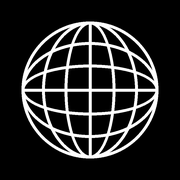
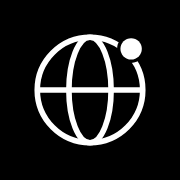
Логотип, сообщения слева, панель действий у сообщения, переключатель участников
Claude-Session: https://claude.ai/code/session_01LKqLCCSRVGjQHTdUZQkSDw

Changed region(s): [[0.1111, 0.1111, 0.8889, 0.8889]]

diff --git a/public/app.js b/public/app.js
@@ -75,10 +75,15 @@ const ICONS = {
   settings: '<circle cx="12" cy="12" r="3"/><path d="M12 3v3M12 18v3M3 12h3M18 12h3M5.6 5.6l2.1 2.1M16.3 16.3l2.1 2.1M5.6 18.4l2.1-2.1M16.3 7.7l2.1-2.1"/>',
   stop: '<rect x="6" y="6" width="12" height="12" rx="2"/>',
   check: '<path d="M5 12.5l4.5 4.5L19 7.5"/>',
+  users: '<circle cx="9" cy="8.5" r="3.2"/><path d="M3.5 19c.4-3.2 2.6-5 5.5-5s5.1 1.8 5.5 5M16 5.6a3.2 3.2 0 0 1 0 5.8M17.5 14.3c1.9.5 3 2.1 3.3 4.7"/>',
   clock: '<circle cx="12" cy="12" r="9"/><path d="M12 7v5l3 2"/>',
 };
 const ic = (n) => `<svg class="i" viewBox="0 0 24 24" aria-hidden="true">${ICONS[n]}</svg>`;
 
+const LOGO = `<svg class="logo" xmlns="http://www.w3.org/2000/svg" viewBox="0 0 573 76" role="img" aria-label="Earth's Network" color="currentColor"><circle cx="34" cy="38.0" r="30" fill="none" stroke="currentColor" stroke-width="3.2"/>
+<ellipse cx="34" cy="38.0" rx="12.0" ry="30" fill="none" stroke="currentColor" stroke-width="3.2"/>
+<path d="M4 38.0H64" stroke="currentColor" stroke-width="3.2"/>
+<circle cx="57.4" cy="14.6" r="6.1" fill="currentColor" stroke="var(--bg,#000)" stroke-width="3.8" paint-order="stroke"/><path transform="translate(90.0 56.0)" d="M34.13 -21.6V-14.4H13.97L12.91 -8.06H35.71V0H2.26L4.99 -18L2.26 -36H35.47V-27.94H12.91L13.97 -21.6Z M64.37 0 63.65 -5.57Q61.78 -2.69 58.99 -1.06Q55.92 0.77 52.03 0.77Q48 0.77 44.95 -1.03Q41.9 -2.83 40.18 -6.12Q38.45 -9.41 38.45 -13.68Q38.45 -18.05 40.18 -21.31Q41.9 -24.58 44.95 -26.4Q48 -28.22 52.03 -28.22Q55.92 -28.22 58.99 -26.45Q61.78 -24.77 63.7 -21.94L64.37 -27.41H74.54L72.82 -13.73L74.54 0ZM48.38 -13.68Q48.38 -11.66 49.22 -10.08Q50.06 -8.5 51.55 -7.61Q53.04 -6.72 54.96 -6.72Q56.98 -6.72 58.75 -7.61Q60.53 -8.5 61.87 -10.08Q63.22 -11.66 63.89 -13.68Q63.22 -15.74 61.87 -17.33Q60.53 -18.91 58.75 -19.82Q56.98 -20.74 54.96 -20.74Q53.04 -20.74 51.55 -19.82Q50.06 -18.91 49.22 -17.33Q48.38 -15.74 48.38 -13.68Z M76.75 -27.41H86.74L87.94 -20.11Q88.66 -22.18 89.76 -23.86Q91.06 -25.87 93.02 -27.05Q94.99 -28.22 97.82 -28.22Q98.64 -28.22 99.5 -28.13Q100.37 -28.03 101.23 -27.84V-19.49Q99.79 -19.78 98.52 -19.9Q97.25 -20.02 96.19 -20.02Q94.08 -20.02 92.3 -19.18Q90.53 -18.34 89.45 -16.42Q88.37 -14.5 88.37 -11.28V0H78.58V-18.19Z M100.99 -20.16V-24.43L106.56 -26.69L110.78 -34.8H116.35V-27.41H127.87V-20.16H116.35V-12.1Q116.35 -9.12 117.55 -7.92Q118.75 -6.72 121.92 -6.72Q123.94 -6.72 125.5 -7.08Q127.06 -7.44 128.35 -8.02V-0.62Q126.91 -0.1 124.56 0.34Q122.21 0.77 119.71 0.77Q115.15 0.77 112.25 -0.62Q109.34 -2.02 107.95 -4.63Q106.56 -7.25 106.56 -10.75V-20.16Z M131.14 -36.96H140.98V-23.09Q142.66 -25.39 145.01 -26.69Q147.74 -28.22 151.01 -28.22Q154.99 -28.22 157.75 -26.64Q160.51 -25.06 162 -22.18Q163.49 -19.3 163.49 -15.36V0H153.65V-13.92Q153.65 -16.99 152.09 -18.62Q150.53 -20.26 147.6 -20.26Q145.58 -20.26 144.07 -19.39Q142.56 -18.53 141.77 -16.94Q140.98 -15.36 140.98 -13.2V0H131.14Z M166.37 -36H176.11L174.19 -19.92H168.29Z M211.1 -8.93Q211.1 -5.76 209.18 -3.6Q207.26 -1.44 203.71 -0.34Q200.16 0.77 195.17 0.77Q190.03 0.77 186.17 -0.48Q182.3 -1.73 180.14 -3.98Q177.98 -6.24 177.84 -9.22H187.78Q188.11 -8.11 189.1 -7.32Q190.08 -6.53 191.71 -6.12Q193.34 -5.71 195.6 -5.71Q198.53 -5.71 200.04 -6.29Q201.55 -6.86 201.55 -8.02Q201.55 -8.93 200.4 -9.38Q199.25 -9.84 196.46 -10.08L191.62 -10.46Q186.77 -10.8 183.91 -11.93Q181.06 -13.06 179.81 -14.86Q178.56 -16.66 178.56 -18.96Q178.56 -22.08 180.5 -24.12Q182.45 -26.16 185.93 -27.19Q189.41 -28.22 194.06 -28.22Q198.67 -28.22 202.27 -27.02Q205.87 -25.82 208.03 -23.69Q210.19 -21.55 210.53 -18.67H200.59Q200.35 -19.58 199.54 -20.33Q198.72 -21.07 197.28 -21.55Q195.84 -22.03 193.58 -22.03Q190.94 -22.03 189.58 -21.46Q188.21 -20.88 188.21 -19.82Q188.21 -19.01 189.05 -18.53Q189.89 -18.05 192.19 -17.86L198.58 -17.38Q203.33 -17.09 206.06 -16.01Q208.8 -14.93 209.95 -13.15Q211.1 -11.38 211.1 -8.93Z  M255.7 -11.33V-36H265.34V0H252.82L235.06 -25.3V0H225.41V-36H238.27Z M286.27 0.77Q281.28 0.77 277.37 -1.06Q273.46 -2.88 271.2 -6.17Q268.94 -9.46 268.94 -13.82Q268.94 -18.1 271.1 -21.34Q273.26 -24.58 277.03 -26.4Q280.8 -28.22 285.55 -28.22Q290.5 -28.22 293.98 -26.09Q297.46 -23.95 299.35 -20.06Q301.25 -16.18 301.25 -10.9H279.6Q279.79 -10.51 280.03 -10.18Q281.18 -8.35 283.46 -7.39Q285.74 -6.43 289.06 -6.43Q292.08 -6.43 295.08 -7.22Q298.08 -8.02 300.53 -9.46V-3.22Q297.7 -1.3 294.07 -0.26Q290.45 0.77 286.27 0.77ZM279.17 -16.8H292.13Q291.84 -17.62 291.46 -18.34Q290.59 -19.78 289.18 -20.54Q287.76 -21.31 285.79 -21.31Q283.63 -21.31 282.1 -20.45Q280.56 -19.58 279.7 -18.1Q279.36 -17.47 279.17 -16.8Z M301.82 -20.16V-24.43L307.39 -26.69L311.62 -34.8H317.18V-27.41H328.7V-20.16H317.18V-12.1Q317.18 -9.12 318.38 -7.92Q319.58 -6.72 322.75 -6.72Q324.77 -6.72 326.33 -7.08Q327.89 -7.44 329.18 -8.02V-0.62Q327.74 -0.1 325.39 0.34Q323.04 0.77 320.54 0.77Q315.98 0.77 313.08 -0.62Q310.18 -2.02 308.78 -4.63Q307.39 -7.25 307.39 -10.75V-20.16Z M367.87 -9.79 374.11 -27.41H383.9L373.63 0H363.65L356.69 -18.43L349.63 0H339.65L329.38 -27.41H339.26L345.5 -9.74L352.03 -27.41H361.39Z M401.81 0.77Q396.53 0.77 392.59 -1.03Q388.66 -2.83 386.45 -6.12Q384.24 -9.41 384.24 -13.68Q384.24 -18.05 386.45 -21.31Q388.66 -24.58 392.59 -26.4Q396.53 -28.22 401.81 -28.22Q407.04 -28.22 411 -26.4Q414.96 -24.58 417.17 -21.31Q419.38 -18.05 419.38 -13.68Q419.38 -9.41 417.17 -6.12Q414.96 -2.83 411 -1.03Q407.04 0.77 401.81 0.77ZM401.81 -6.48Q404.21 -6.48 405.91 -7.34Q407.62 -8.21 408.53 -9.84Q409.44 -11.47 409.44 -13.68Q409.44 -15.98 408.53 -17.59Q407.62 -19.2 405.91 -20.06Q404.21 -20.93 401.81 -20.93Q399.41 -20.93 397.68 -20.06Q395.95 -19.2 395.04 -17.59Q394.13 -15.98 394.13 -13.73Q394.13 -11.47 395.04 -9.84Q395.95 -8.21 397.68 -7.34Q399.41 -6.48 401.81 -6.48Z M421.01 -27.41H430.99L432.19 -20.11Q432.91 -22.18 434.02 -23.86Q435.31 -25.87 437.28 -27.05Q439.25 -28.22 442.08 -28.22Q442.9 -28.22 443.76 -28.13Q444.62 -28.03 445.49 -27.84V-19.49Q444.05 -19.78 442.78 -19.9Q441.5 -20.02 440.45 -20.02Q438.34 -20.02 436.56 -19.18Q434.78 -18.34 433.7 -16.42Q432.62 -14.5 432.62 -11.28V0H422.83V-18.19Z M457.49 -12.05 469.97 -27.41H480.29L470.78 -16.51L481.01 0H469.97L464.54 -9.31L456.43 0H447.65V-36.96H457.49Z" fill="currentColor"/></svg>`;
 const S = {
   token: localStorage.getItem('nc_token'),
   user: null,
@@ -390,8 +395,8 @@ function openChannel(ch) {
   if (S.unread[ch.id]) { delete S.unread[ch.id]; recountUnread?.(); }
   if (S.view.type === 'server') renderServerSide(); else renderHomeSide();
   renderRail();
-  $('#main-head').innerHTML = `${burger()}<span class="muted">${ch.type === 'dm' ? '@' : ic('hash')}</span> <span>${esc(ch.name)}</span>${ch.topic ? `<span class="ch-topic grow" title="${esc(ch.topic)}">${esc(ch.topic)}</span>` : '<span class="grow"></span>'}${ch.slowmode ? `<span class="muted small slow-tag" title="Медленный режим">${ic('clock')} ${slowLabel(ch.slowmode)}</span>` : ''}${S.view.type === 'server' && S.server?.server.owner_id === S.user.id ? `<button class="icon-btn" id="ch-set" title="Настройки канала" aria-label="Настройки канала">${ic('settings')}</button>` : ''}<button class="icon-btn" id="pins" title="Закреплённые" aria-label="Закреплённые">${ic('pin')}</button>`;
-  $('#main-head').onclick = (e) => { burgerClick(e); if (e.target.closest('#pins')) pinsModal(); if (e.target.closest('#ch-set')) channelSettings(ch); };
+  $('#main-head').innerHTML = `${burger()}<span class="muted">${ch.type === 'dm' ? '@' : ic('hash')}</span> <span>${esc(ch.name)}</span>${ch.topic ? `<span class="ch-topic grow" title="${esc(ch.topic)}">${esc(ch.topic)}</span>` : '<span class="grow"></span>'}${ch.slowmode ? `<span class="muted small slow-tag" title="Медленный режим">${ic('clock')} ${slowLabel(ch.slowmode)}</span>` : ''}${S.view.type === 'server' && S.server?.server.owner_id === S.user.id ? `<button class="icon-btn" id="ch-set" title="Настройки канала" aria-label="Настройки канала">${ic('settings')}</button>` : ''}${S.view.type === 'server' ? `<button class="icon-btn ${S.prefs.hideMembers ? '' : 'on'}" id="mem-tg" title="${S.prefs.hideMembers ? 'Показать участников' : 'Скрыть участников'}" aria-label="Список участников" aria-pressed="${!S.prefs.hideMembers}">${ic('users')}</button>` : ''}<button class="icon-btn" id="pins" title="Закреплённые" aria-label="Закреплённые">${ic('pin')}</button>`;
+  $('#main-head').onclick = (e) => { burgerClick(e); if (e.target.closest('#pins')) pinsModal(); if (e.target.closest('#ch-set')) channelSettings(ch); if (e.target.closest('#mem-tg')) toggleMembers(); };
   const v = $('#view');
   v.onclick = null;
   v.classList.remove('enter'); void v.offsetWidth; v.classList.add('enter');
@@ -494,8 +499,8 @@ function msgHtml(m, prev) {
   const owner = S.server && S.server.server.owner_id === S.user.id;
   const cont = prev && prev.user_id === m.user_id && m.created_at - prev.created_at < 300000 && !m.reply_to;
   const when = fmtTime(m.created_at);
-  const gutter = mine ? '' : `<div class="gutter">${cont ? '' : `<span data-user="${esc(m.username)}" class="clickable">${avatar(m.username, 36)}</span>`}</div>`;
-  const name = mine || cont ? '' : `<div class="who"><a href="#" data-user="${esc(m.username)}">${esc(m.username)}</a></div>`;
+  const gutter = `<div class="gutter">${cont ? '' : `<span data-user="${esc(m.username)}" class="clickable">${avatar(m.username, 36)}</span>`}</div>`;
+  const name = cont ? '' : `<div class="who"><a href="#" data-user="${esc(m.username)}">${esc(m.username)}</a></div>`;
   const quote = m.reply_to ? `<div class="quote" data-jump="${m.reply_to}"><b>${esc(m.reply_name || '?')}</b> ${esc(m.reply_content || 'сообщение удалено')}</div>` : '';
   const reacts = (m.reactions || []).length ? `<div class="reacts">${m.reactions.map((r) => `<button class="react ${r.users.includes(S.user.id) ? 'on' : ''}" data-react="${r.emoji}">${r.emoji} <span>${r.users.length}</span></button>`).join('')}</div>` : '';
   const linked = m.content ? linkify(m.content) : '';
@@ -506,8 +511,8 @@ function msgHtml(m, prev) {
     ${!S.server || owner ? `<button data-tool="pin" title="закрепить" aria-label="закрепить">${ic('pin')}</button>` : ''}
     ${!mine ? `<button data-tool="report" title="пожаловаться" aria-label="пожаловаться">${ic('flag')}</button>` : ''}
     ${mine || owner ? `<button data-tool="del" title="удалить" aria-label="удалить">${ic('trash')}</button>` : ''}</div>`;
-  return `<div class="msg ${mine ? 'mine' : ''} ${cont ? 'cont' : ''} ${m.pinned ? 'is-pinned' : ''}" data-id="${m.id}" data-uid="${m.user_id}" data-t="${m.created_at}">${gutter}<div class="body">${name}
-    ${quote}${linked ? `<div class="bubble" title="${when}">${linked}${m.edited_at ? ' <span class="edited">(изм.)</span>' : ''}${m.pinned ? `<span class="pin-mark">${ic('pin')}</span>` : ''}</div>` : ''}${att}${reacts}</div>${tools}</div>`;
+  return `<div class="msg ${mine ? 'own' : ''} ${cont ? 'cont' : ''} ${m.pinned ? 'is-pinned' : ''}" data-id="${m.id}" data-uid="${m.user_id}" data-t="${m.created_at}">${gutter}<div class="body">${name}
+    ${quote}${linked ? `<div class="bubble" title="${when}">${linked}${m.edited_at ? ' <span class="edited">(изм.)</span>' : ''}${m.pinned ? `<span class="pin-mark">${ic('pin')}</span>` : ''}</div>` : ''}${att}${reacts}${tools}</div></div>`;
 }
 function prevInfo(el) {
   const p = el?.previousElementSibling;
@@ -759,4 +764,12 @@ function updateVoiceBar() {
   b.innerHTML = `<div><b>голос подключён</b><div class="muted">${esc(S.voice.name)}</div></div><div><button class="icon-btn" id="vb-mute">${ic(S.voice.muted ? 'micoff' : 'mic')}</button><button class="icon-btn" id="vb-leave" aria-label="выйти из канала">${ic('close')}</button></div>`;
   $('#vb-mute').onclick = toggleMute;
   $('#vb-leave').onclick = leaveVoice;
+}
+
+function toggleMembers() {
+  S.prefs.hideMembers = !S.prefs.hideMembers;
+  applyPrefs();
+  $('#app').classList.toggle('no-members', !!S.prefs.hideMembers);
+  const b = $('#mem-tg');
+  if (b) { b.classList.toggle('on', !S.prefs.hideMembers); b.title = S.prefs.hideMembers ? 'Показать участников' : 'Скрыть участников'; b.setAttribute('aria-pressed', String(!S.prefs.hideMembers)); }
 }

diff --git a/public/index.html b/public/index.html
@@ -24,7 +24,10 @@
 
 <div id="auth" class="auth hidden">
   <div class="auth-hero">
-    <div class="wordmark">Earth's<br>Network</div>
+    <div class="wordmark"><svg class="logo-big" xmlns="http://www.w3.org/2000/svg" viewBox="0 0 377 160" color="currentColor"><circle cx="188.53399999999996" cy="48" r="40" fill="none" stroke="currentColor" stroke-width="3.6"/>
+<ellipse cx="188.53399999999996" cy="48" rx="16.0" ry="40" fill="none" stroke="currentColor" stroke-width="3.6"/>
+<path d="M148.53399999999996 48H228.53399999999996" stroke="currentColor" stroke-width="3.6"/>
+<circle cx="219.7" cy="16.8" r="6.8" fill="currentColor" stroke="var(--bg,#000)" stroke-width="4.3" paint-order="stroke"/><path transform="translate(8.0 140)" d="M25.6 -16.2V-10.8H10.48L9.68 -6.05H26.78V0H1.69L3.74 -13.5L1.69 -27H26.6V-20.95H9.68L10.48 -16.2Z M48.38 0 47.84 -4.18Q46.43 -2.02 44.34 -0.79Q42.04 0.58 39.12 0.58Q36.1 0.58 33.81 -0.77Q31.53 -2.12 30.23 -4.59Q28.94 -7.06 28.94 -10.26Q28.94 -13.54 30.23 -15.98Q31.53 -18.43 33.81 -19.8Q36.1 -21.17 39.12 -21.17Q42.04 -21.17 44.34 -19.84Q46.43 -18.58 47.87 -16.45L48.38 -20.56H56.01L54.71 -10.3L56.01 0ZM36.39 -10.26Q36.39 -8.75 37.02 -7.56Q37.65 -6.37 38.76 -5.71Q39.88 -5.04 41.32 -5.04Q42.83 -5.04 44.16 -5.71Q45.5 -6.37 46.5 -7.56Q47.51 -8.75 48.02 -10.26Q47.51 -11.81 46.5 -13Q45.5 -14.18 44.16 -14.87Q42.83 -15.55 41.32 -15.55Q39.88 -15.55 38.76 -14.87Q37.65 -14.18 37.02 -13Q36.39 -11.81 36.39 -10.26Z M57.76 -20.56H65.25L66.15 -15.08Q66.69 -16.63 67.52 -17.89Q68.49 -19.4 69.97 -20.29Q71.44 -21.17 73.57 -21.17Q74.18 -21.17 74.83 -21.1Q75.48 -21.02 76.12 -20.88V-14.62Q75.04 -14.83 74.09 -14.92Q73.14 -15.01 72.34 -15.01Q70.76 -15.01 69.43 -14.38Q68.1 -13.75 67.29 -12.31Q66.48 -10.87 66.48 -8.46V0H59.13V-13.64Z M76.04 -15.12V-18.32L80.22 -20.02L83.39 -26.1H87.56V-20.56H96.2V-15.12H87.56V-9.07Q87.56 -6.84 88.46 -5.94Q89.36 -5.04 91.74 -5.04Q93.25 -5.04 94.42 -5.31Q95.59 -5.58 96.56 -6.01V-0.47Q95.48 -0.07 93.72 0.25Q91.96 0.58 90.08 0.58Q86.66 0.58 84.49 -0.47Q82.31 -1.51 81.26 -3.47Q80.22 -5.44 80.22 -8.06V-15.12Z M98.75 -27.72H106.13V-17.32Q107.39 -19.04 109.16 -20.02Q111.21 -21.17 113.66 -21.17Q116.64 -21.17 118.71 -19.98Q120.78 -18.79 121.9 -16.63Q123.02 -14.47 123.02 -11.52V0H115.64V-10.44Q115.64 -12.74 114.47 -13.97Q113.3 -15.19 111.1 -15.19Q109.59 -15.19 108.45 -14.54Q107.32 -13.9 106.73 -12.71Q106.13 -11.52 106.13 -9.9V0H98.75Z M125.28 -27H132.58L131.14 -14.94H126.72Z M158.93 -6.7Q158.93 -4.32 157.49 -2.7Q156.05 -1.08 153.38 -0.25Q150.72 0.58 146.98 0.58Q143.12 0.58 140.23 -0.36Q137.33 -1.3 135.71 -2.99Q134.09 -4.68 133.98 -6.91H141.43Q141.68 -6.08 142.42 -5.49Q143.16 -4.9 144.38 -4.59Q145.61 -4.28 147.3 -4.28Q149.5 -4.28 150.63 -4.72Q151.76 -5.15 151.76 -6.01Q151.76 -6.7 150.9 -7.04Q150.04 -7.38 147.95 -7.56L144.31 -7.85Q140.68 -8.1 138.53 -8.95Q136.39 -9.79 135.46 -11.14Q134.52 -12.49 134.52 -14.22Q134.52 -16.56 135.98 -18.09Q137.44 -19.62 140.05 -20.39Q142.66 -21.17 146.15 -21.17Q149.6 -21.17 152.3 -20.27Q155 -19.37 156.62 -17.77Q158.24 -16.16 158.5 -14H151.04Q150.86 -14.69 150.25 -15.25Q149.64 -15.8 148.56 -16.16Q147.48 -16.52 145.79 -16.52Q143.81 -16.52 142.78 -16.09Q141.76 -15.66 141.76 -14.87Q141.76 -14.26 142.39 -13.9Q143.02 -13.54 144.74 -13.39L149.53 -13.03Q153.1 -12.82 155.15 -12.01Q157.2 -11.2 158.06 -9.86Q158.93 -8.53 158.93 -6.7Z  M192.57 -8.5V-27H199.81V0H190.41L177.09 -18.97V0H169.86V-27H179.5Z M215.6 0.58Q211.86 0.58 208.93 -0.79Q205.99 -2.16 204.3 -4.63Q202.61 -7.09 202.61 -10.37Q202.61 -13.57 204.23 -16Q205.85 -18.43 208.67 -19.8Q211.5 -21.17 215.06 -21.17Q218.77 -21.17 221.38 -19.57Q223.99 -17.96 225.41 -15.05Q226.84 -12.13 226.84 -8.17H210.6Q210.74 -7.88 210.92 -7.63Q211.79 -6.26 213.5 -5.54Q215.21 -4.82 217.69 -4.82Q219.96 -4.82 222.21 -5.42Q224.46 -6.01 226.3 -7.09V-2.41Q224.17 -0.97 221.45 -0.2Q218.74 0.58 215.6 0.58ZM210.28 -12.6H220Q219.78 -13.21 219.49 -13.75Q218.84 -14.83 217.78 -15.41Q216.72 -15.98 215.24 -15.98Q213.62 -15.98 212.47 -15.34Q211.32 -14.69 210.67 -13.57Q210.42 -13.1 210.28 -12.6Z M227.37 -15.12V-18.32L231.54 -20.02L234.71 -26.1H238.89V-20.56H247.53V-15.12H238.89V-9.07Q238.89 -6.84 239.79 -5.94Q240.69 -5.04 243.06 -5.04Q244.58 -5.04 245.75 -5.31Q246.92 -5.58 247.89 -6.01V-0.47Q246.81 -0.07 245.04 0.25Q243.28 0.58 241.41 0.58Q237.99 0.58 235.81 -0.47Q233.63 -1.51 232.59 -3.47Q231.54 -5.44 231.54 -8.06V-15.12Z M277 -7.34 281.68 -20.56H289.03L281.32 0H273.84L268.62 -13.82L263.32 0H255.84L248.13 -20.56H255.55L260.23 -7.31L265.12 -20.56H272.14Z M302.56 0.58Q298.6 0.58 295.64 -0.77Q292.69 -2.12 291.04 -4.59Q289.38 -7.06 289.38 -10.26Q289.38 -13.54 291.04 -15.98Q292.69 -18.43 295.64 -19.8Q298.6 -21.17 302.56 -21.17Q306.48 -21.17 309.45 -19.8Q312.42 -18.43 314.08 -15.98Q315.73 -13.54 315.73 -10.26Q315.73 -7.06 314.08 -4.59Q312.42 -2.12 309.45 -0.77Q306.48 0.58 302.56 0.58ZM302.56 -4.86Q304.36 -4.86 305.63 -5.51Q306.91 -6.16 307.6 -7.38Q308.28 -8.6 308.28 -10.26Q308.28 -11.99 307.6 -13.19Q306.91 -14.4 305.63 -15.05Q304.36 -15.7 302.56 -15.7Q300.76 -15.7 299.46 -15.05Q298.16 -14.4 297.48 -13.19Q296.8 -11.99 296.8 -10.3Q296.8 -8.6 297.48 -7.38Q298.16 -6.16 299.46 -5.51Q300.76 -4.86 302.56 -4.86Z M317.06 -20.56H324.54L325.44 -15.08Q325.98 -16.63 326.81 -17.89Q327.78 -19.4 329.26 -20.29Q330.74 -21.17 332.86 -21.17Q333.47 -21.17 334.12 -21.1Q334.77 -21.02 335.42 -20.88V-14.62Q334.34 -14.83 333.38 -14.92Q332.43 -15.01 331.64 -15.01Q330.05 -15.01 328.72 -14.38Q327.39 -13.75 326.58 -12.31Q325.77 -10.87 325.77 -8.46V0H318.42V-13.64Z M344.52 -9.04 353.88 -20.56H361.62L354.49 -12.38L362.16 0H353.88L349.81 -6.98L343.72 0H337.14V-27.72H344.52Z" fill="currentColor"/></svg></div>
     <p>свои серверы, свои правила. пиши, звони и делись файлами без лишних ограничений.</p>
   </div>
   <form id="auth-form" class="auth-card">

diff --git a/public/style.css b/public/style.css
@@ -120,18 +120,13 @@ a{color:var(--text);text-decoration:underline;text-decoration-color:var(--muted)
 .msgs>.empty{margin:auto}
 .msg{display:flex;gap:10px;margin-top:12px;position:relative;align-items:flex-end;animation:pop .45s var(--spring)}
 .msg.cont{margin-top:3px}
-.msg.mine{justify-content:flex-end}
 .msg .gutter{width:36px;flex:none}
 .msg .body{min-width:0;max-width:min(560px,78%);display:flex;flex-direction:column;align-items:flex-start}
-.msg.mine .body{align-items:flex-end}
 .msg .who{font-size:12.5px;font-weight:600;margin:0 0 3px 12px}
 .bubble{background:var(--bubble);padding:8px 14px;border-radius:20px 20px 20px 6px;white-space:pre-wrap;word-break:break-word;line-height:1.45}
-.msg.cont:not(.mine) .bubble{border-top-left-radius:6px}
-.msg.mine .bubble{background:var(--sky);color:var(--on-sky);border-radius:20px 20px 6px 20px}
-.msg.mine.cont .bubble{border-top-right-radius:6px}
-.msg.mine .bubble a{color:var(--on-sky);text-decoration-color:var(--on-sky)}
+.msg.cont .bubble{border-top-left-radius:6px}
 .msg .del{position:absolute;top:-6px;opacity:0;padding:4px;border-radius:10px;background:var(--surface);color:var(--muted);border:1px solid var(--line);transition:opacity .15s}
-.msg:not(.mine) .del{right:8px}.msg.mine .del{left:8px}
+.msg .del{right:8px}
 .msg:hover .del,.msg .del:focus-visible{opacity:1}.msg .del:hover{background:var(--red);color:#fff;filter:none}
 .msg .del .i{width:14px;height:14px}
 .msg img.att{max-width:min(380px,100%);max-height:320px;border-radius:18px;margin-top:4px;display:block}
@@ -270,7 +265,6 @@ kbd{font:600 12px ui-monospace,monospace;background:var(--raise);border:1px soli
 .msg .who a{color:var(--muted);text-decoration:none}.msg .who a:hover{color:var(--text);text-decoration:underline}
 .msg .quote{font-size:12.5px;color:var(--muted);border-left:3px solid var(--line);padding:2px 10px;margin:0 0 3px 6px;max-width:100%;overflow:hidden;text-overflow:ellipsis;white-space:nowrap;cursor:pointer}
 .msg .quote b{color:var(--text)}
-.msg.mine .quote{border-left:0;border-right:3px solid var(--line);margin:0 6px 3px 0}
 .msg.flash .bubble{animation:flash 1.2s}
 @keyframes flash{30%{box-shadow:0 0 0 4px color-mix(in srgb,var(--sky) 40%,transparent)}}
 .bubble .edited{font-size:11px;opacity:.6}
@@ -281,7 +275,7 @@ a.mention,a.tag{font-weight:600;text-decoration:none;color:inherit;background:co
 .react{padding:2px 9px;border-radius:999px;background:var(--raise);color:var(--text);font-size:13px;font-weight:600;gap:4px;border:1px solid transparent}
 .react.on{border-color:var(--sky)}
 .mtools{position:absolute;top:-14px;display:flex;gap:2px;opacity:0;pointer-events:none;background:var(--surface);border:1px solid var(--line);border-radius:12px;padding:2px;transition:opacity .15s;z-index:2}
-.msg:not(.mine) .mtools{right:8px}.msg.mine .mtools{left:8px}
+.msg .mtools{left:6px}
 .msg:hover .mtools,.msg:focus-within .mtools{opacity:1;pointer-events:auto}
 .mtools button{background:none;color:var(--muted);padding:5px;border-radius:9px}
 .mtools button:hover{background:var(--raise);color:var(--text);filter:none}
@@ -527,3 +521,23 @@ button.sx-tab{background:none;box-shadow:none}
 button.sx-tab.danger{color:var(--red);background:none}
 button.sx-tab:hover{background:var(--raise)}
 button.sx-tab.danger:hover{background:color-mix(in srgb,var(--red) 14%,transparent)}
+
+/* логотип */
+.side-head .logo{height:26px;width:auto;display:block;color:var(--text);--bg:var(--deep)}
+.wordmark{background:none;-webkit-background-clip:initial;background-clip:initial;color:var(--text);font-size:inherit;letter-spacing:0;line-height:1}
+.logo-big{width:clamp(260px,34vw,460px);height:auto;display:block;color:var(--text);--bg:var(--night)}
+
+/* панель действий — у самого сообщения */
+.msg .body{position:relative}
+.mtools{top:-16px}
+.msg:not(.cont) .mtools{top:-2px}
+
+/* все сообщения слева, как в Discord; свои — просто с ником и аватаркой */
+.msg.own .bubble{background:var(--bubble);color:var(--text);border-radius:20px 20px 20px 6px}
+.msg.own.cont .bubble{border-top-left-radius:6px}
+.msg.own .bubble a{color:inherit}
+.msg.own .who a{color:var(--text)}
+.msg .mtools{left:6px;right:auto}
+
+#mem-tg.on{color:var(--text)}#mem-tg:not(.on){color:var(--muted)}
+.app{transition:grid-template-columns .45s var(--spring)}

diff --git a/public/feed.js b/public/feed.js
@@ -1,6 +1,6 @@
 // earth's network — лента, посты, профили
 
-function setLayout(withRight) { $('#app').classList.toggle('no-members', !withRight); }
+function setLayout(withRight) { $('#app').classList.toggle('no-members', !withRight || (S.view.type === 'server' && !!S.prefs.hideMembers)); }
 
 function timeAgo(t) {
   const d = (Date.now() - t) / 1000;
@@ -119,7 +119,7 @@ function bindComposer(onSubmit) {
 // ---- боковые панели
 function feedSide() {
   const pg = S.view.type === 'feed' ? S.view.page : '';
-  $('#side-head').innerHTML = '<span>earth\'s network</span>';
+  $('#side-head').innerHTML = LOGO;
   const items = [['feed', 'лента', 'globe', ['all', 'following', 'clips'].includes(pg)], ['search', 'поиск', 'search', pg === 'search'], ['me', 'моя страница', 'chat', pg === 'me']];
   if (S.user.is_admin) items.push(['admin', 'жалобы', 'shield', pg === 'admin']);
   items.push(['settings', 'настройки', 'settings', false]);
